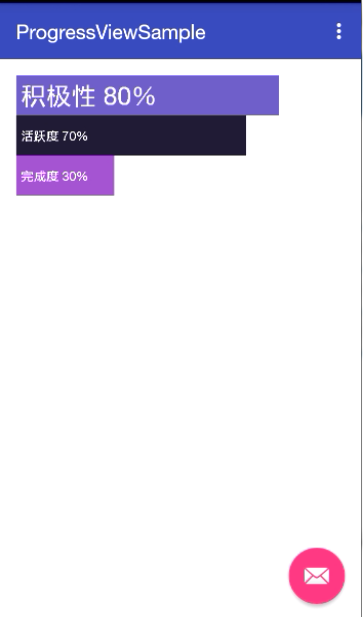
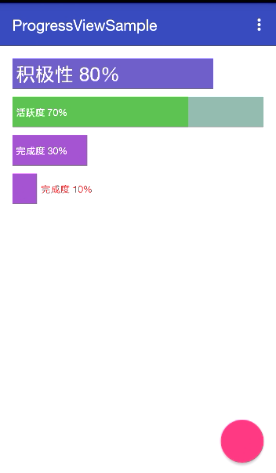
更新版本0.3.1，增加文字超出处理

Changed region(s): [[0.0, 0.0, 1.0, 1.0], [0.7826, 0.8879, 0.9565, 0.9767]]

diff --git a/README.md b/README.md
@@ -7,7 +7,7 @@
 ### 使用
 1.导入依赖
 ```java
-    compile 'com.diffey.view.progressview:progressview:0.3.0'
+    compile 'com.diffey.view.progressview:progressview:0.3.1'
 ```
 
 2.布局中使用
@@ -24,5 +24,6 @@
             progressview:textColor="#eee"
             progressview:textGravity="right"
             progressview:textGravityPadding="5dp"
-            progressview:textSize="25sp" />
+            progressview:textSize="25sp" 
+            progressview:textOverColor="#d73b3b"/>
 ``` 
